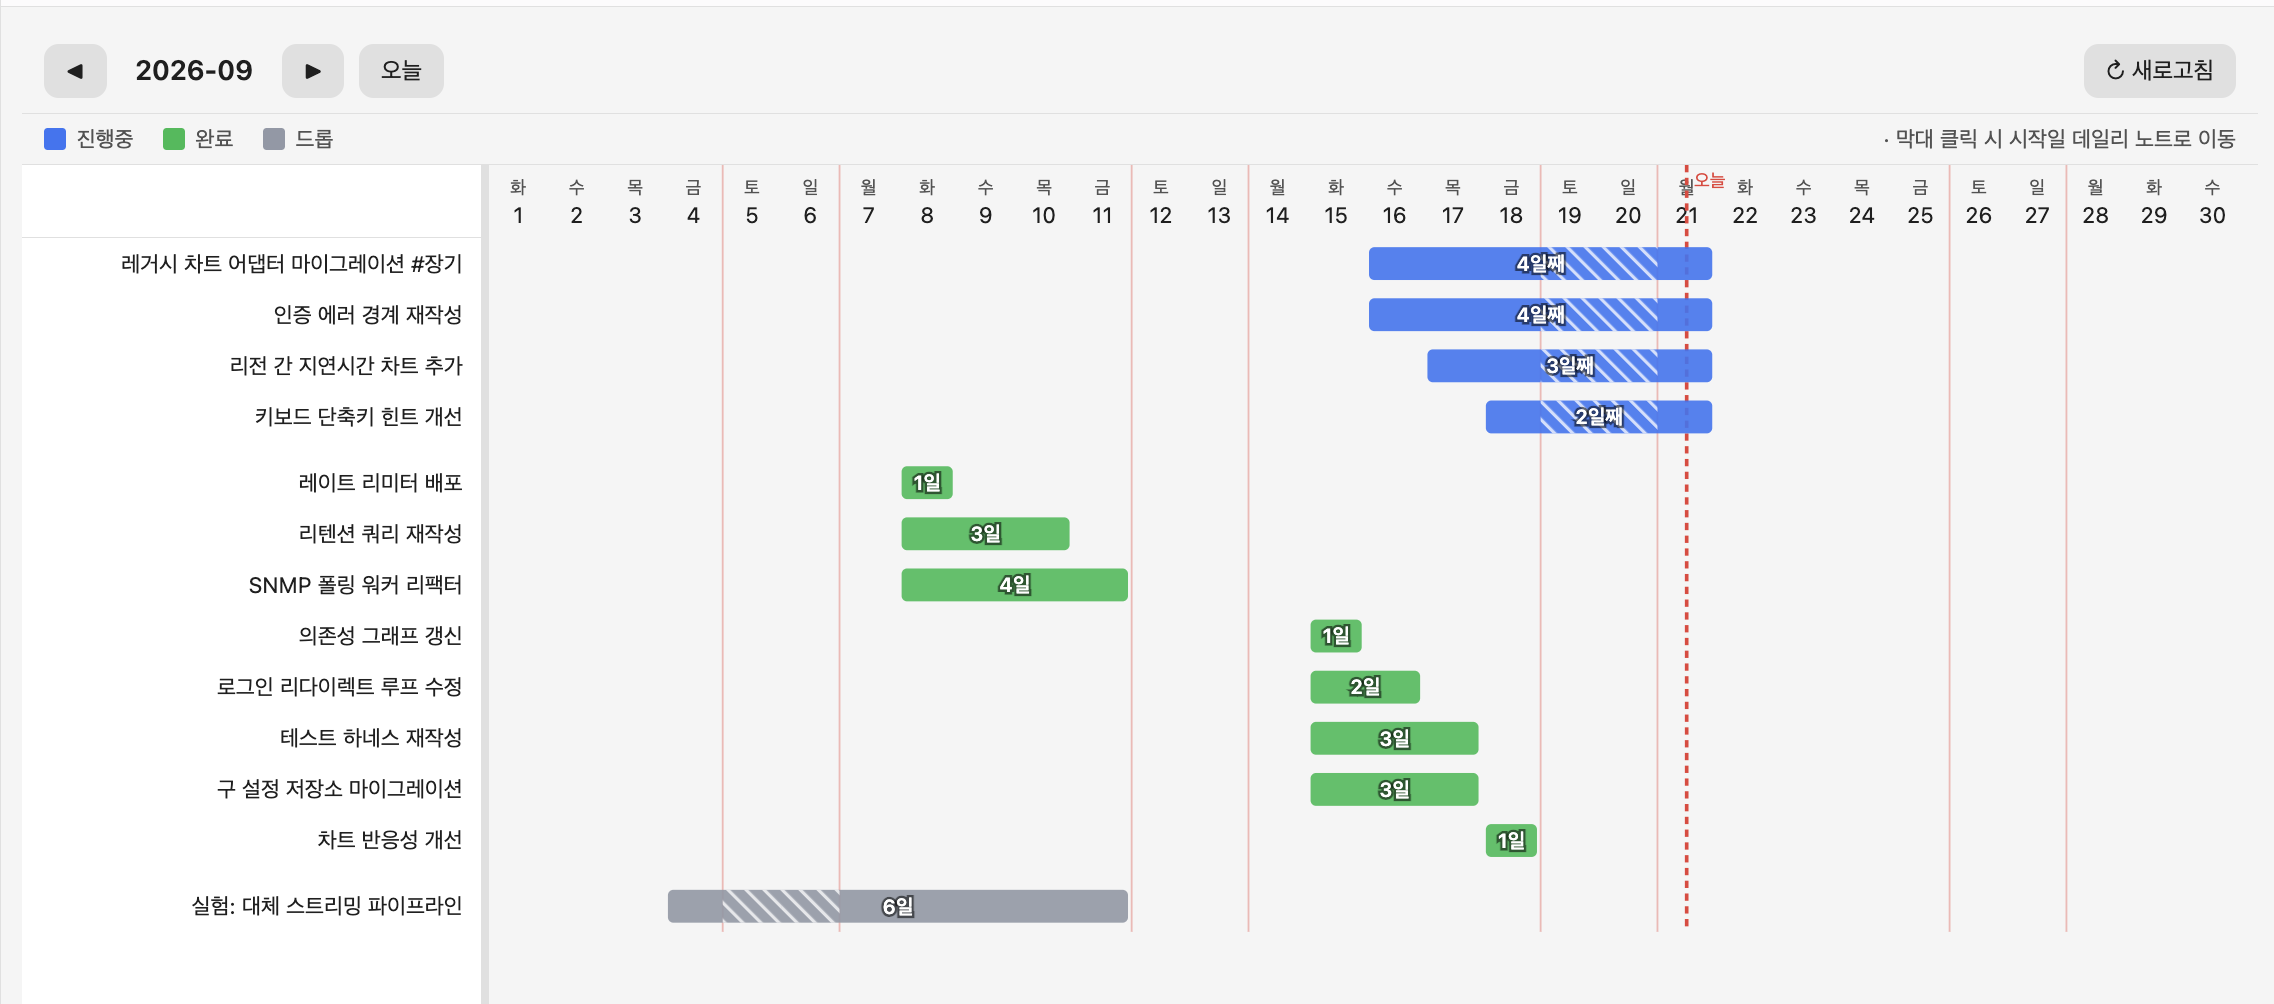
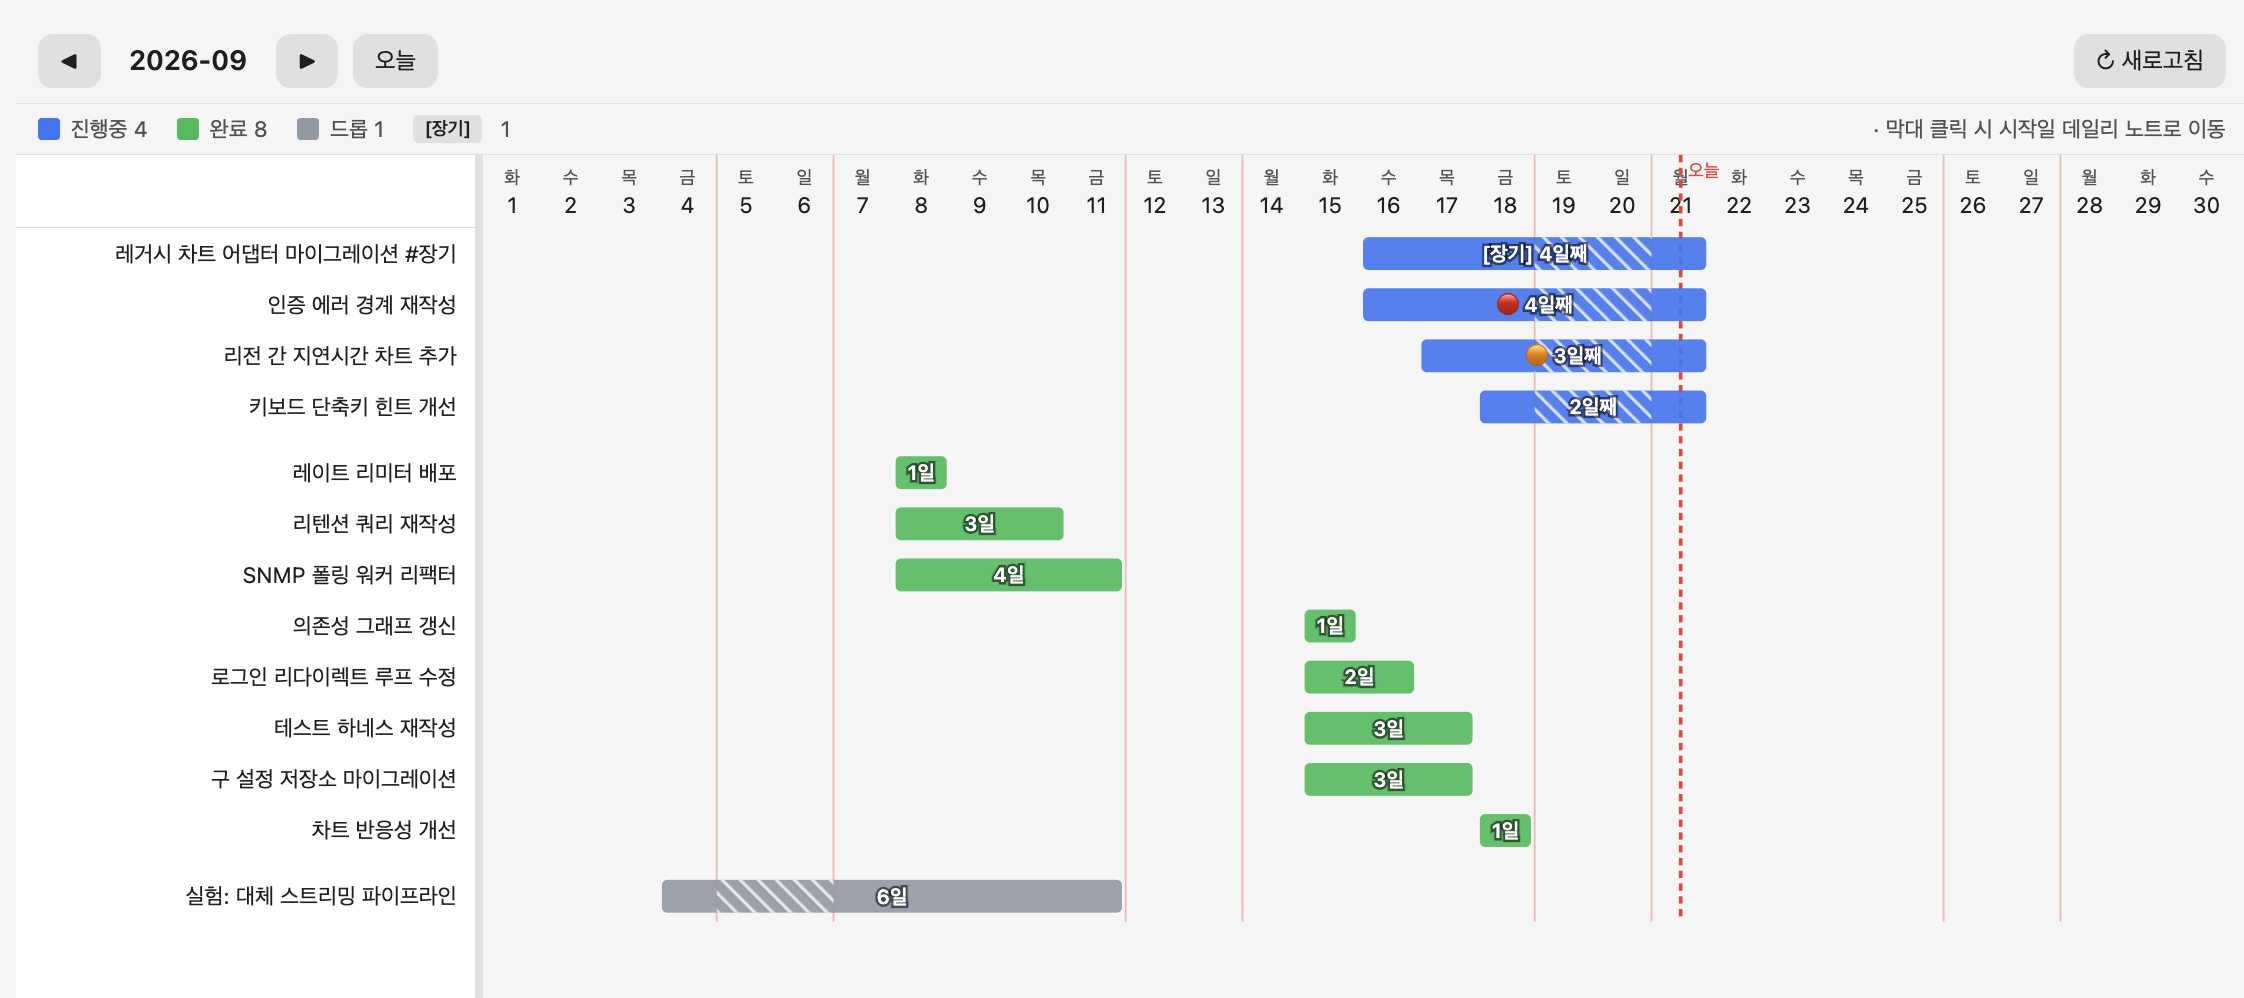
docs: 스크린샷 최신화 (범례 카운트, 오프셋 설정, 3종 툴팁)
새 이미지:
- timeline.png (갱신) — 범례 카운트 + [장기] 뱃지 + 막대 상태 라벨
- settings.png (갱신) — 🔴/🟠 오프셋 설정 필드 반영
- timeline-tooltip-red.png (신규) — 다음 영업일 드롭 경고
- timeline-tooltip-orange.png (신규) — 하이라이트된 카운트다운
- timeline-tooltip-long.png (신규) — [장기] 정보 박스
- timeline-tooltip.png 삭제 (3종 특화로 대체)

README (en/ko):
- 툴팁 스크린샷을 3열 테이블로 재배치 (Red / Orange / Long-term)

diff --git a/README.md b/README.md
@@ -57,9 +57,11 @@ Left ribbon → calendar icon → this month's Gantt chart.
 
 ![Timeline](./assets/timeline.png)
 
-Hover state shows the task's subtasks and duration:
+Hover a bar for the full task details, subtasks, and drop countdown:
 
-![Timeline tooltip](./assets/timeline-tooltip.png)
+| Red — drops next business day | Orange — with countdown | Long-term — exempt |
+|---|---|---|
+| ![Red warning](./assets/timeline-tooltip-red.png) | ![Orange warning](./assets/timeline-tooltip-orange.png) | ![Long-term](./assets/timeline-tooltip-long.png) |
 
 The monthly summary document also embeds a Mermaid Gantt snapshot that refreshes each day.
 
@@ -205,9 +207,11 @@ MIT
 
 ![타임라인](./assets/timeline.png)
 
-Hover 시 하위 항목과 소요일 확인:
+막대에 hover 하면 전체 이름·하위 항목·드롭 카운트다운 확인:
 
-![툴팁](./assets/timeline-tooltip.png)
+| 🔴 (다음 영업일 드롭) | 🟠 (카운트다운) | [장기] (면제) |
+|---|---|---|
+| ![빨강 경고](./assets/timeline-tooltip-red.png) | ![주황 경고](./assets/timeline-tooltip-orange.png) | ![장기](./assets/timeline-tooltip-long.png) |
 
 월간 종합 문서에도 Mermaid 간트 스냅샷이 매일 자동 갱신된다.
 
